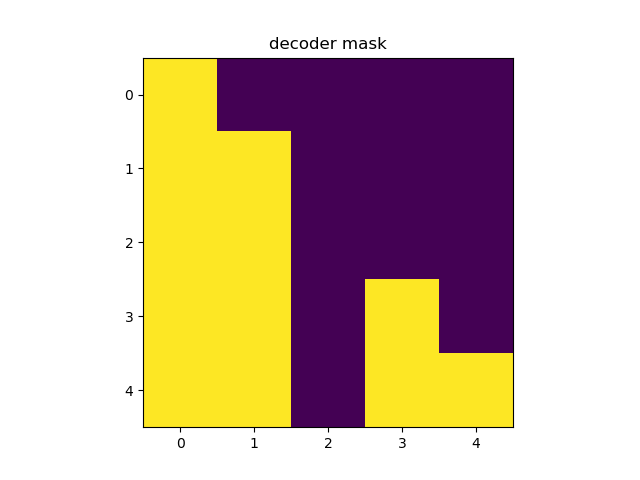
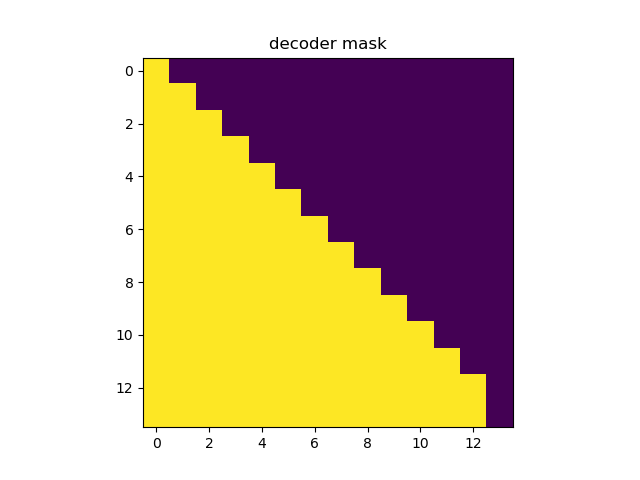
update

diff --git a/core/model/Sublayers.py b/core/model/Sublayers.py
@@ -45,7 +45,7 @@ class MultiHeadedAttention(nn.Module):
 
         # query shape : (batch size, nhead, sequence length, d_model // nhead)
         # transposed key shape : (batch size, nhead, d_model // nhead, sequence length)
-        # result shape : (batch size, nhead, sequence length, vocab_size)
+        # result shape : (batch size, nhead, sequence length, sequence length)
         attr_score= torch.div(torch.matmul(query, key.transpose(-2, -1)), math.sqrt(d_k))
 
         if mask is not None:

diff --git a/core/model/InputLayer.py b/core/model/InputLayer.py
@@ -139,6 +139,6 @@ if __name__ == "__main__":
     plt.show()
 
     plt.title("decoder mask")
-    plt.imshow(decoder_mask(torch.tensor([[1,2,0,4,6],[1,0,3,4,5]]))[0][0])
+    plt.imshow(decoder_mask(torch.tensor([[3,4,2,3,5,6,11,3,4,1,2,3,6,0]]))[0][0])
     plt.savefig("decoder_mask.png")
     plt.show()

diff --git a/README.md b/README.md
@@ -1,0 +1,25 @@
+>## ***Pytorch Transformer***
+* 구현
+    * Label Smoothing, Beam Search 등은 제외
+
+>## ***Development environment***
+* OS : ubuntu linux 18.04 LTS
+* Graphic card / driver : rtx 2080ti / 418.56
+* Anaconda version : 4.10.3
+* pytorch version : 1.9.1
+    * Configure Run Environment
+        1. Create a virtual environment
+        ```cmd
+        jg@JG:~$ conda create -n pytorch python==3.8.8
+        ```
+        2. Install the required module 
+        ```cmd
+        jg@JG:~$ conda activate pytorch 
+        (pytorch) jg@JG:~$ conda install pytorch torchvision torchaudio cudatoolkit=10.2 -c pytorch 
+        (pytorch) jg@JG:~$ pip install spacy matplotlib torchtext tensorboard torchsummary torchtext tqdm PyYAML --pre --upgrade
+        (pytorch) jg@JG:~$ python -m spacy download en_core_web_sm
+        (pytorch) jg@JG:~$ python -m spacy download de_core_news_sm
+        ```
+>## ***Author*** 
+
+* medical18@naver.com / JONGGON
